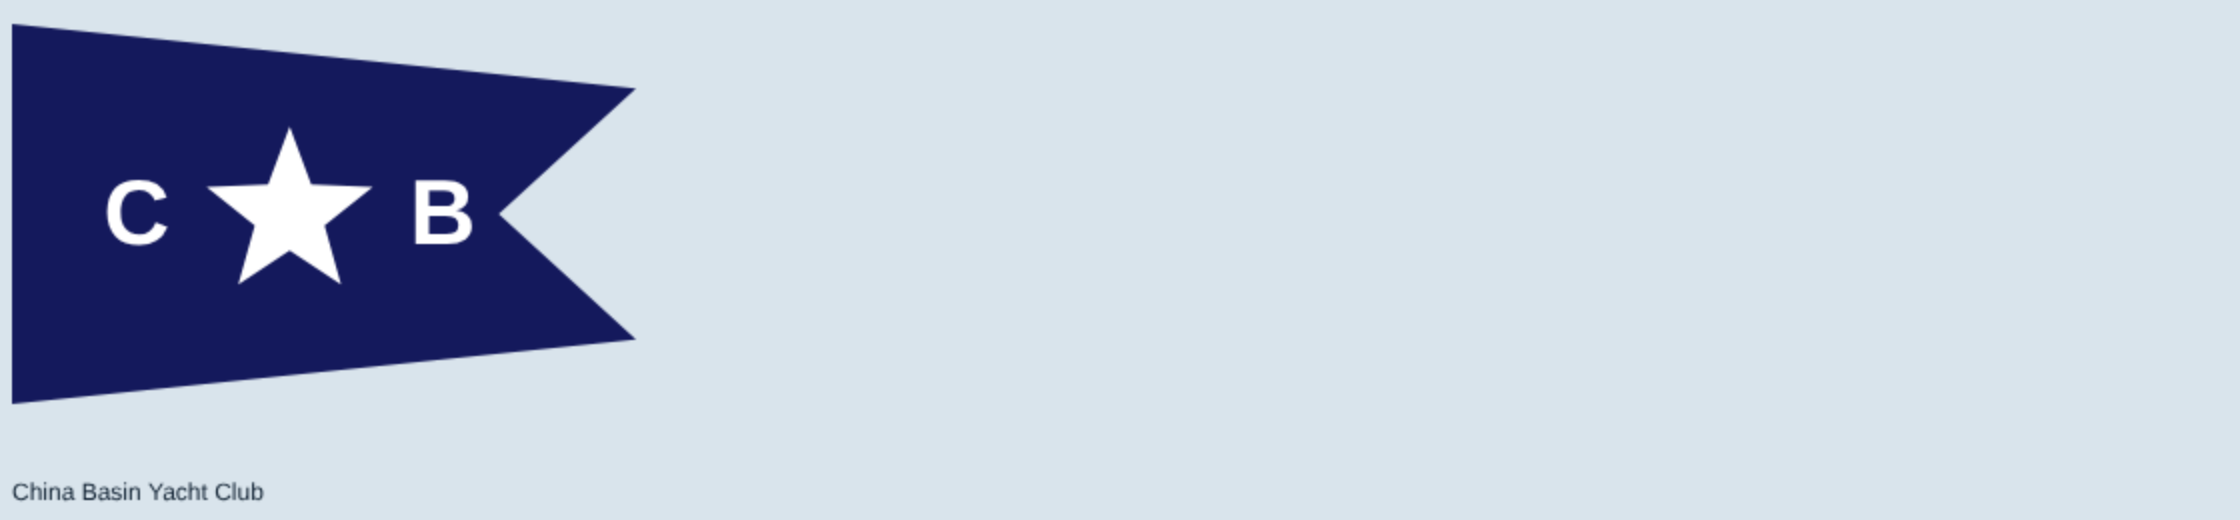
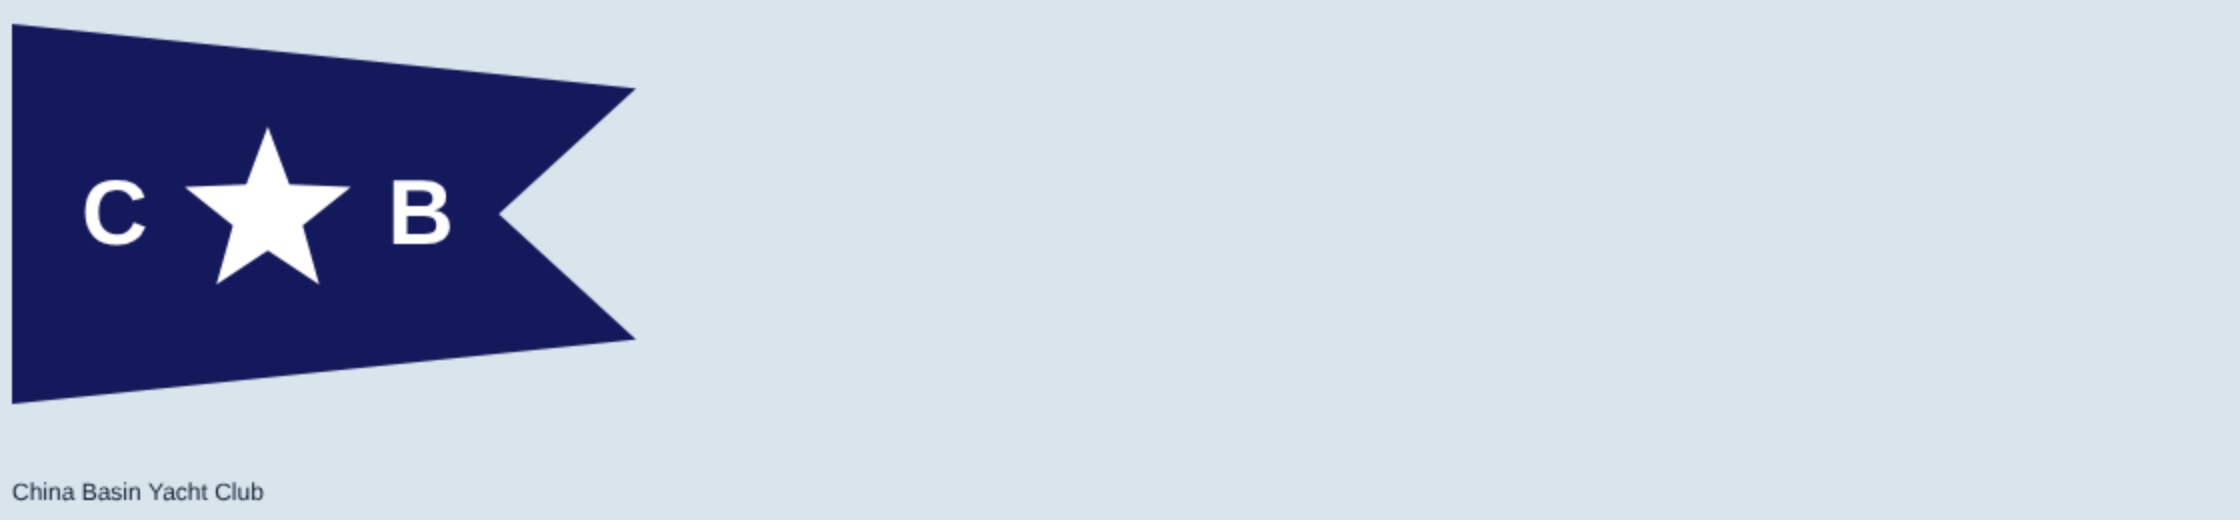
Burgees: China Basin, the whole group nudged left
Claude-Session: https://claude.ai/code/session_012Uu5QjYRsEpBxuz7xgHWhs

Changed region(s): [[0.0312, 0.2462, 0.2188, 0.5538]]

diff --git a/src/render/burgeeArt.ts b/src/render/burgeeArt.ts
@@ -121,11 +121,11 @@ export const PARODY_BURGEES: Burgee[] = [
       hook(g, W * 0.356, H * 0.5, H * 0.36, '#1b2285'); } },
   { id: 'sbyc', shape: 'swallow', ratio: 1.64, // China Basin, from the owner's reference (to flag for IP review: the layout is a real club's): navy swallowtail, one white star between the letters C and B
     draw: (g, W, H) => { fill(g, W, H, '#14195c');
-      const cx = W * 0.445, cy = H * 0.5, R = H * 0.23, r = R * 0.42, pts: P[] = [];
+      const cx = W * 0.41, cy = H * 0.5, R = H * 0.23, r = R * 0.42, pts: P[] = [];
       for (let i = 0; i < 10; i++) { const a = -Math.PI / 2 + i * Math.PI / 5, k = i % 2 ? r : R; pts.push([cx + Math.cos(a) * k, cy + Math.sin(a) * k]); }
       poly(g, WHITE, ...pts);
       g.fillStyle = WHITE; g.font = `bold ${Math.round(H * 0.24)}px Arial, Helvetica, sans-serif`; g.textAlign = 'center'; g.textBaseline = 'middle';
-      g.fillText('C', W * 0.2, H * 0.5 + H * 0.01); g.fillText('B', W * 0.69, H * 0.5 + H * 0.01); } },
+      g.fillText('C', W * 0.165, H * 0.5 + H * 0.01); g.fillText('B', W * 0.655, H * 0.5 + H * 0.01); } },
   { id: 'bvbc', shape: 'pennant', ratio: 1.6, // Dry Dock: working waterfront, so a yellow field and one dark-blue ship's wheel toward the hoist
     draw: (g, W, H) => { fill(g, W, H, '#f2c200'); wheel(g, W * 0.27, H * 0.5, H * 0.29, '#14295c', '#f2c200'); } },
   { id: 'mhpyc', shape: 'pennant', ratio: 1.6, // Monarch Point: three equal bands, one for each club that merged in 1974: monarch orange, sunflower yellow, harbor teal
